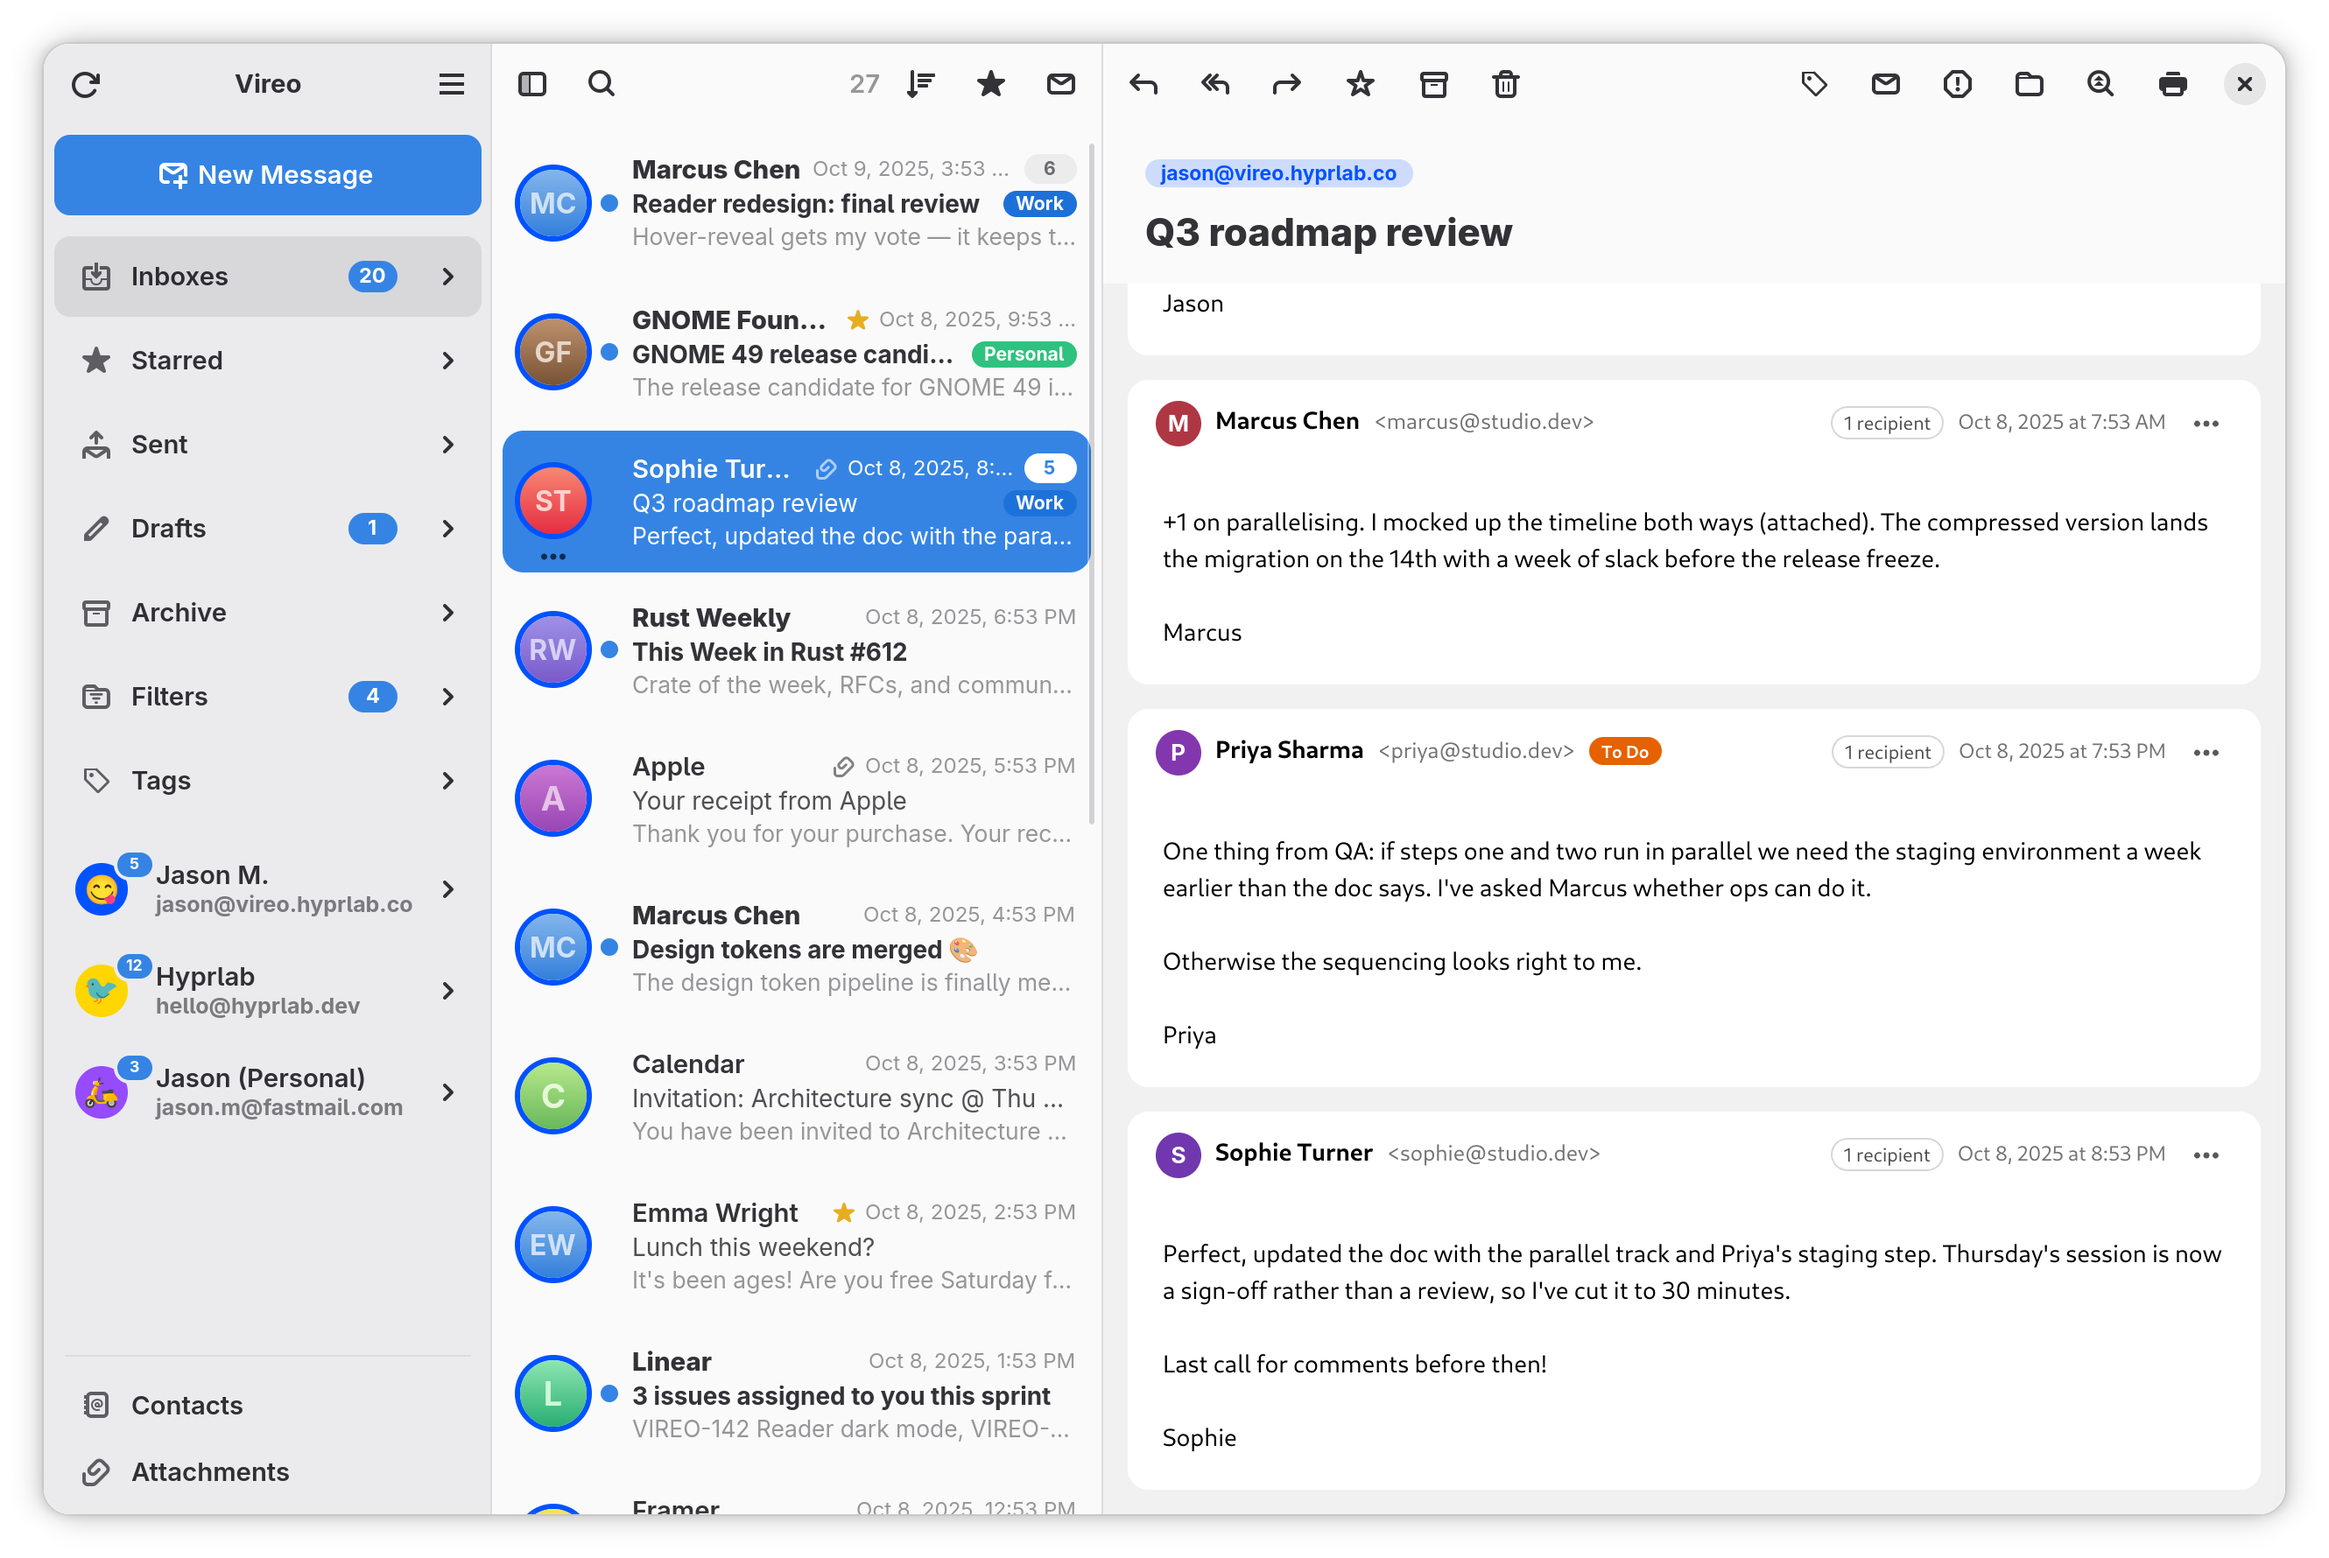
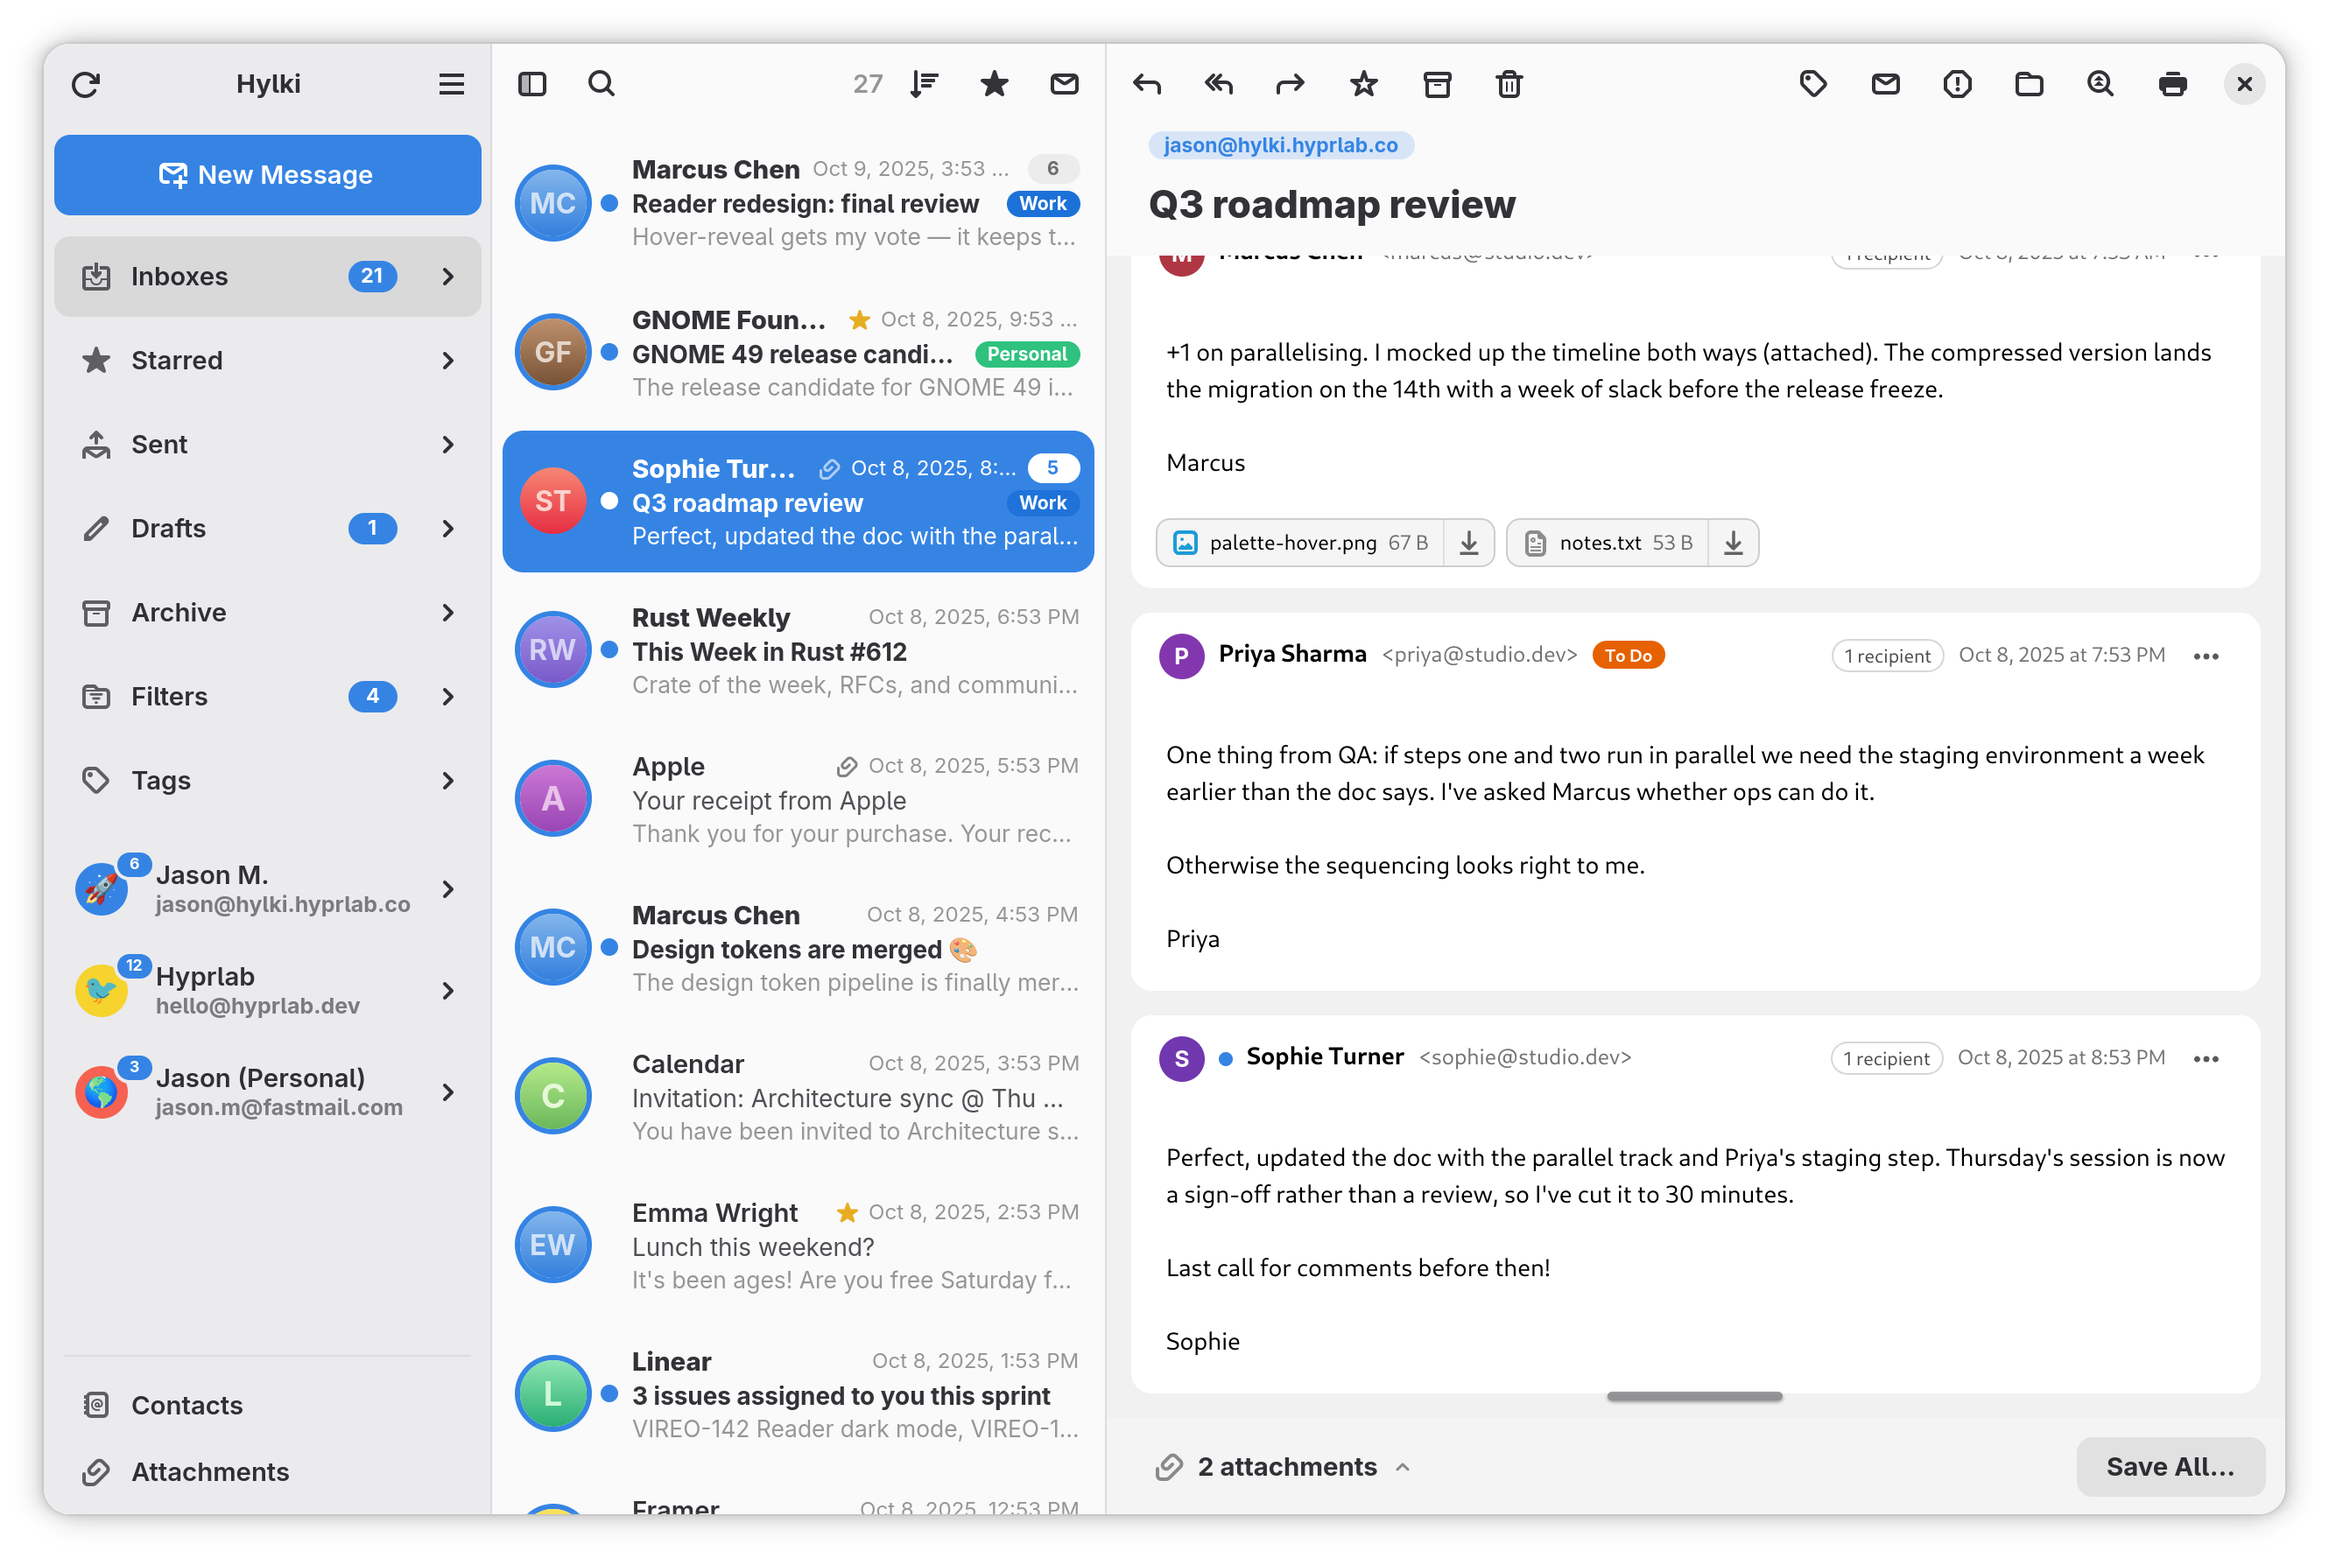
README: Hylki screenshots, light and dark

diff --git a/README.md b/README.md
@@ -18,7 +18,10 @@
 </p>
 
 <p align="center">
-  <img src="docs/screenshot.png" width="900" alt="Hylki showing a unified inbox in light mode">
+  <picture>
+    <source media="(prefers-color-scheme: dark)" srcset="docs/screenshot-dark.png">
+    <img src="docs/screenshot.png" width="900" alt="Hylki showing a unified inbox">
+  </picture>
 </p>
 
 ---
